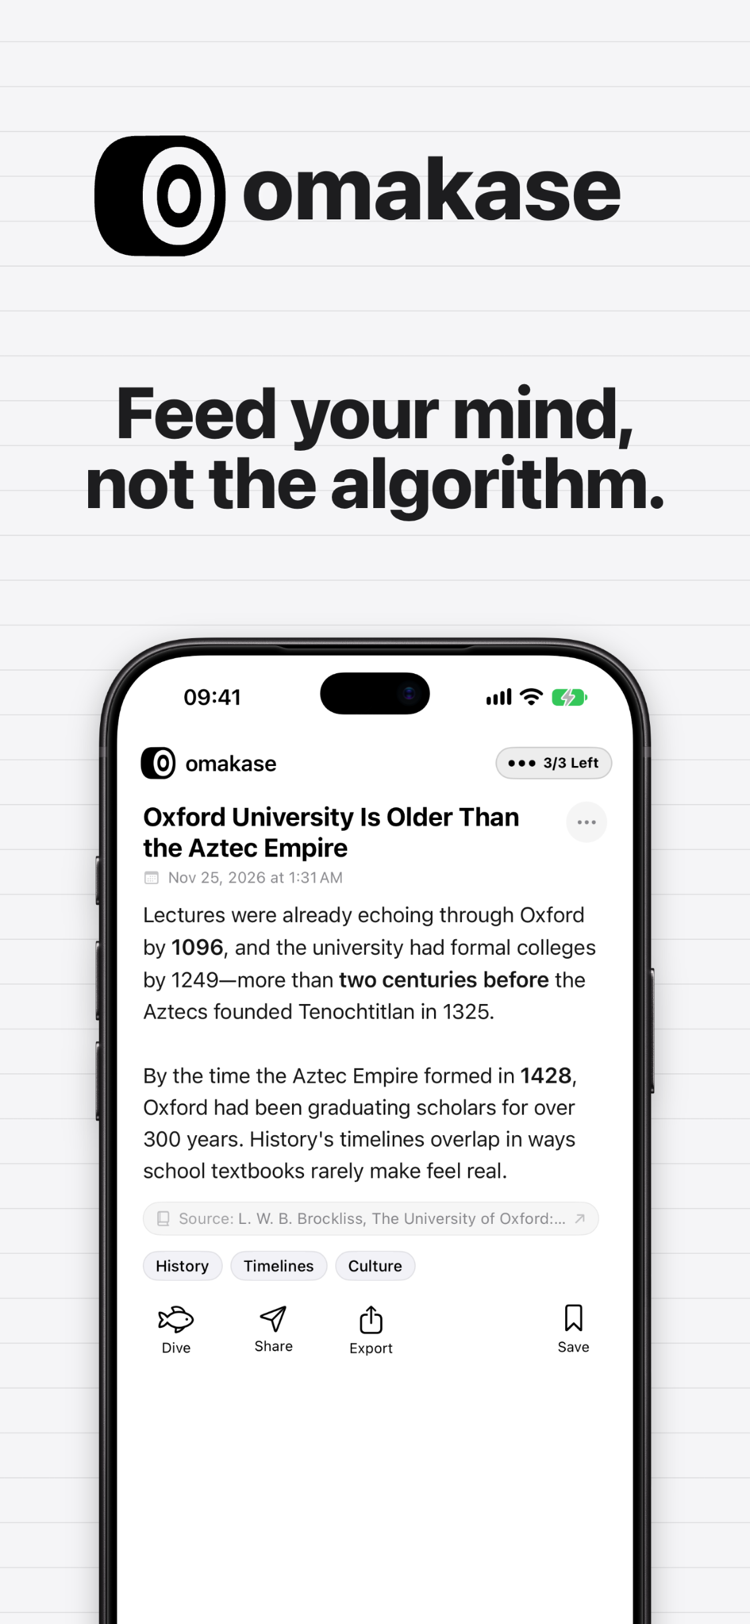
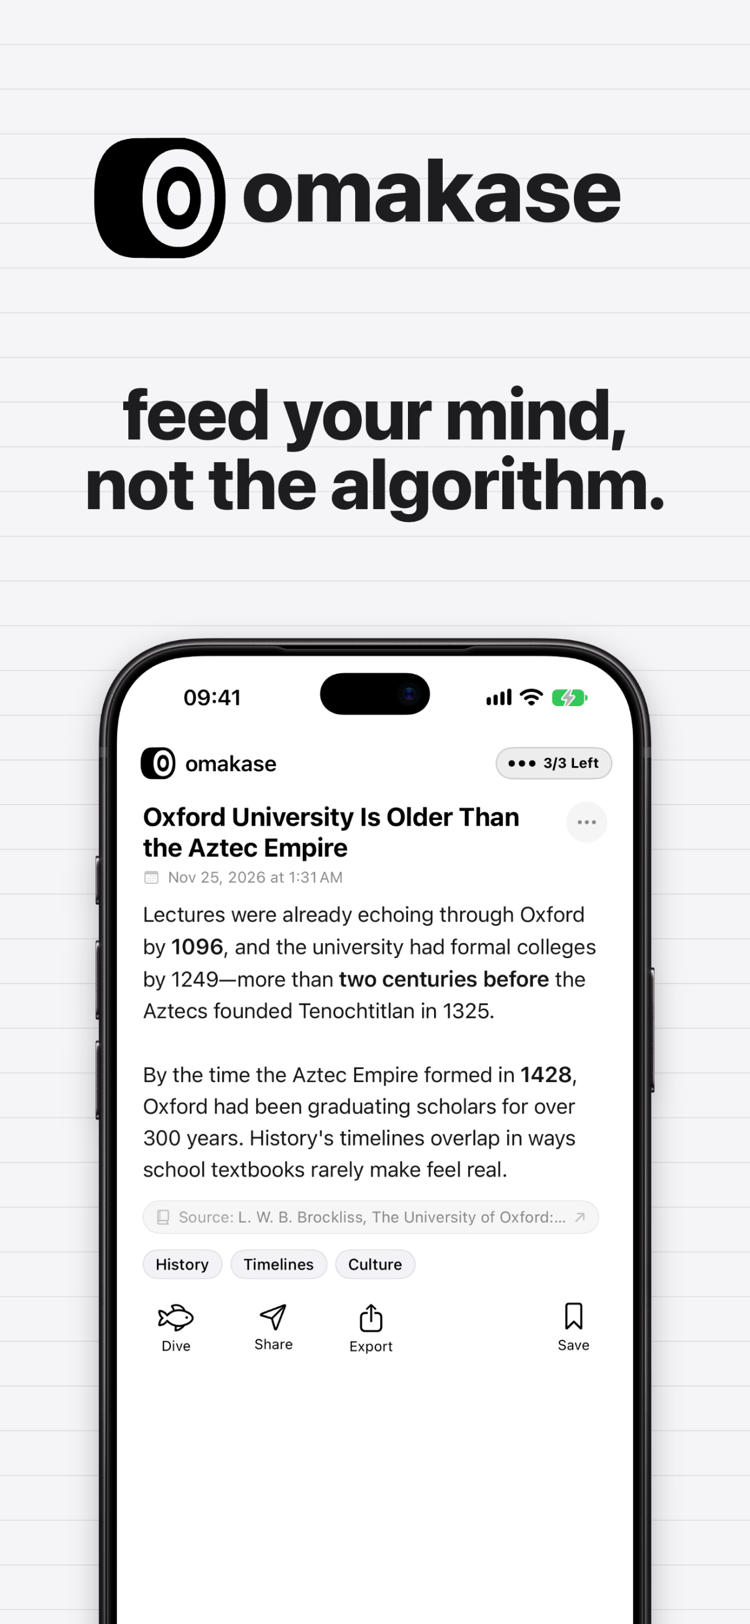
refactor: lowercase copy and update ai model references across web and screenshots

diff --git a/web/privacy.html b/web/privacy.html
@@ -3,7 +3,7 @@
 <head>
   <meta charset="UTF-8">
   <meta name="viewport" content="width=device-width, initial-scale=1.0, maximum-scale=5.0">
-  <title>Gizlilik Politikası / Privacy Policy — Omakase</title>
+  <title>omakase</title>
   <meta name="description" content="Omakase iOS uygulaması ve web sitesi gizlilik politikası, toplanan veriler ve hesap silme hakları.">
   <link rel="icon" type="image/svg+xml" href="assets/logo.svg">
   <link rel="apple-touch-icon" href="assets/app-icon.png">
@@ -54,7 +54,7 @@
       </p>
       <ul>
         <li><strong>Google Firebase (Authentication &amp; Cloud Firestore):</strong> Güvenli oturum açma ve topluluk veritabanı barındırma.</li>
-        <li><strong>Google Cloud Run &amp; Gemini API (Gemini 3.5 Flash / 3.1 Flash-Lite):</strong> Seçtiğiniz ilgi alanlarına göre gerçek zamanlı mikro-hikayeler ve derin okuma (Deep Dive) makaleleri üretmek için kullanılır. Kişisel kimlik bilgileriniz (e-posta vb.) yapay zekâ istemlerine dahil edilmez.</li>
+        <li><strong>Google Cloud Run &amp; AI API:</strong> Seçtiğiniz ilgi alanlarına göre gerçek zamanlı mikro-hikayeler ve derin okuma (Deep Dive) makaleleri üretmek için kullanılır. Kişisel kimlik bilgileriniz (e-posta vb.) yapay zekâ istemlerine dahil edilmez.</li>
         <li><strong>Abonelik ve Satın Alma Doğrulaması (RevenueCat &amp; StoreKit 2):</strong> Omakase Pro abonelik durumunuzu ve satın alma yetkilerinizi doğrulamak için kişisel kredi kartı bilgisi saklamadan yalnızca anonimleştirilmiş Apple işlem tanımlayıcıları ve Firebase kullanıcı kimliği (UID) işlenir.</li>
         <li><strong>Hata ve Kilitlenme Tanı Verileri (Firebase Crashlytics):</strong> Uygulama kararlılığını artırmak ve hataları çözmek amacıyla kişisel metinlerinizi içermeyen teknik kilitlenme ve tanı kayıtları toplanır.</li>
         <li><strong>Anlık Bildirimler (APNs &amp; Firebase Cloud Messaging):</strong> Yalnızca siz açıkça bildirim izni verdiğinizde günlük menü hatırlatıcılarını ve sosyal bildirimleri (yorum, takip, tepki) iletmek amacıyla cihaz bildirim belirteci (<code>fcmToken</code>), dil ve saat dilimi bilginiz saklanır. Çıkış yaptığınızda veya hesabınızı sildiğinizde bu cihaz kaydı silinir.</li>
@@ -106,7 +106,7 @@
       </p>
       <ul>
         <li><strong>Google Firebase (Authentication &amp; Cloud Firestore):</strong> For secure authentication and cloud data storage.</li>
-        <li><strong>Google Cloud Run &amp; Gemini API (Gemini 3.5 Flash / 3.1 Flash-Lite):</strong> For generating real-time cultural micro-stories and Deep Dive expansions based on your selected topics. Personal identifiers (such as your email) are never sent to the AI model.</li>
+        <li><strong>Google Cloud Run &amp; AI API:</strong> For generating real-time cultural micro-stories and Deep Dive expansions based on your selected topics. Personal identifiers (such as your email) are never sent to the AI model.</li>
         <li><strong>Subscription &amp; Purchase Verification (RevenueCat &amp; StoreKit 2):</strong> Processes anonymized Apple transaction identifiers and your Firebase UID strictly to verify Omakase Pro entitlements and restore purchases, without storing payment card details.</li>
         <li><strong>Crash &amp; Diagnostic Logs (Firebase Crashlytics):</strong> Collects technical crash reports and non-fatal error diagnostics (without personal reading content) to improve app stability.</li>
         <li><strong>Push Notifications (APNs &amp; Firebase Cloud Messaging):</strong> Only if you explicitly grant notification permission, we store your device token (<code>fcmToken</code>), language, and timezone to deliver daily reminders and social alerts. Signing out or deleting your account removes this device token.</li>

diff --git a/web/app.js b/web/app.js
@@ -145,7 +145,7 @@ document.addEventListener('DOMContentLoaded', () => {
       "faq.tag": "Merak Edilenler",
       "faq.title": "Sıkça Sorulan Sorular",
       "faq.q1": "Omakase nasıl çalışır?",
-      "faq.a1": "Omakase, 12 ana kültür kategorisinden seçtiğiniz hiper-spesifik alt konuları, kendi yazdığınız özel başlıkları veya Letterboxd günlüğünüzü Google Cloud Run ve Gemini 3.5 Flash modelleriyle gerçek zamanlı olarak doğrulanmış, derinlikli mikro-hikayelere dönüştüren yerel bir iOS uygulamasıdır.",
+      "faq.a1": "Omakase, 12 ana kültür kategorisinden seçtiğiniz hiper-spesifik alt konuları, kendi yazdığınız özel başlıkları veya Letterboxd günlüğünüzü yapay zekâ ile gerçek zamanlı olarak doğrulanmış, derinlikli mikro-hikayelere dönüştüren yerel bir iOS uygulamasıdır.",
       "faq.q2": "Okuma süresi sayacı (Reading Cooldown) neden var?",
       "faq.a2": "Sosyal medya akışları metinleri okumadan saniyede bir kaydırma alışkanlığı yaratır. Omakase, metin uzunluğuna göre 15–25 saniye sindirme süresi uygulayarak içeriği gerçekten okuyup hazmetmenizi sağlar.",
       "faq.q3": "İçeriklerin doğruluğu nasıl korunuyor?",
@@ -299,7 +299,7 @@ document.addEventListener('DOMContentLoaded', () => {
       "faq.tag": "Curiosities",
       "faq.title": "Frequently Asked Questions",
       "faq.q1": "How does Omakase work?",
-      "faq.a1": "Omakase is a native iOS app that transforms your chosen hyper-specific subtopics across 12 cultural disciplines, custom topics, or your Letterboxd diary into verified, real-time micro-stories powered by Google Cloud Run and Gemini 3.5 Flash.",
+      "faq.a1": "Omakase is a native iOS app that transforms your chosen hyper-specific subtopics across 12 cultural disciplines, custom topics, or your Letterboxd diary into verified, real-time micro-stories powered by AI.",
       "faq.q2": "Why is there a reading cooldown timer?",
       "faq.a2": "Conventional social feeds condition users to swipe in fractions of a second without absorbing anything. Omakase enforces a 15–25 second digestion window so every story is genuinely read.",
       "faq.q3": "How is factual accuracy maintained?",

diff --git a/web/index.html b/web/index.html
@@ -3,7 +3,7 @@
 <head>
   <meta charset="UTF-8">
   <meta name="viewport" content="width=device-width, initial-scale=1.0, maximum-scale=5.0">
-  <title>Omakase — Algoritmayı değil, zihnini besle.</title>
+  <title>omakase</title>
   
   <meta name="description" content="Tek dokunuşta fun-fact. Postu AI anlık üretir, kaynağını da verir. 12 kültür disiplini, alt konular, okuma süresi molası, Letterboxd günlüğü ve 7 dil desteği.">
   <meta name="keywords" content="omakase, fun-fact, kültür akışı, mikro hikayeler, ai feed, ios uygulaması, bento keşif, letterboxd, doomscrolling karşıtı, derin okuma">
@@ -561,7 +561,6 @@
             <div class="subtopics-box">
               <div class="subtopics-header">
                 <span class="subtopics-label" data-i18n="demo.subtopicsLabel">Alt Konular (Tavşan Delikleri)</span>
-                <span class="subtopics-ai-tag">Gemini 3.1 Flash-Lite</span>
               </div>
               <div class="subtopics-pills" id="sim-subtopics-list">
                 <!-- Populated dynamically by app.js -->
@@ -865,7 +864,7 @@
               </svg>
             </button>
             <div class="faq-answer" data-i18n="faq.a1">
-              Omakase, 12 ana kültür kategorisinden seçtiğiniz hiper-spesifik alt konuları, kendi yazdığınız özel başlıkları veya Letterboxd günlüğünüzü Google Cloud Run ve Gemini 3.5 Flash modelleriyle gerçek zamanlı olarak doğrulanmış, derinlikli mikro-hikayelere dönüştüren yerel bir iOS uygulamasıdır.
+              Omakase, 12 ana kültür kategorisinden seçtiğiniz hiper-spesifik alt konuları, kendi yazdığınız özel başlıkları veya Letterboxd günlüğünüzü yapay zekâ ile gerçek zamanlı olarak doğrulanmış, derinlikli mikro-hikayelere dönüştüren yerel bir iOS uygulamasıdır.
             </div>
           </div>
 
@@ -990,7 +989,7 @@
 
       <div class="footer-bottom">
         <p data-i18n="footer.copy">© 2026 Omakase. Mürekkep ve kağıt sadeliğiyle iOS için tasarlandı.</p>
-        <p>iOS 17+ • SwiftUI • Gemini 3.5 Flash</p>
+        <p>iOS 17+ • SwiftUI</p>
       </div>
     </div>
   </footer>

diff --git a/web/terms.html b/web/terms.html
@@ -3,7 +3,7 @@
 <head>
   <meta charset="UTF-8">
   <meta name="viewport" content="width=device-width, initial-scale=1.0, maximum-scale=5.0">
-  <title>Kullanım Koşulları / Terms of Use (EULA) — Omakase</title>
+  <title>omakase</title>
   <meta name="description" content="Omakase iOS uygulaması kullanım koşulları, topluluk kuralları ve kullanıcı tarafından oluşturulan içerik (UGC) politikası.">
   <link rel="icon" type="image/svg+xml" href="assets/logo.svg">
   <link rel="apple-touch-icon" href="assets/app-icon.png">

diff --git a/web/style.css b/web/style.css
@@ -2796,3 +2796,6 @@ button {
     font-size: 0.75rem;
   }
 }
+
+/* all lowercase */
+*, *::before, *::after { text-transform: lowercase !important; }
